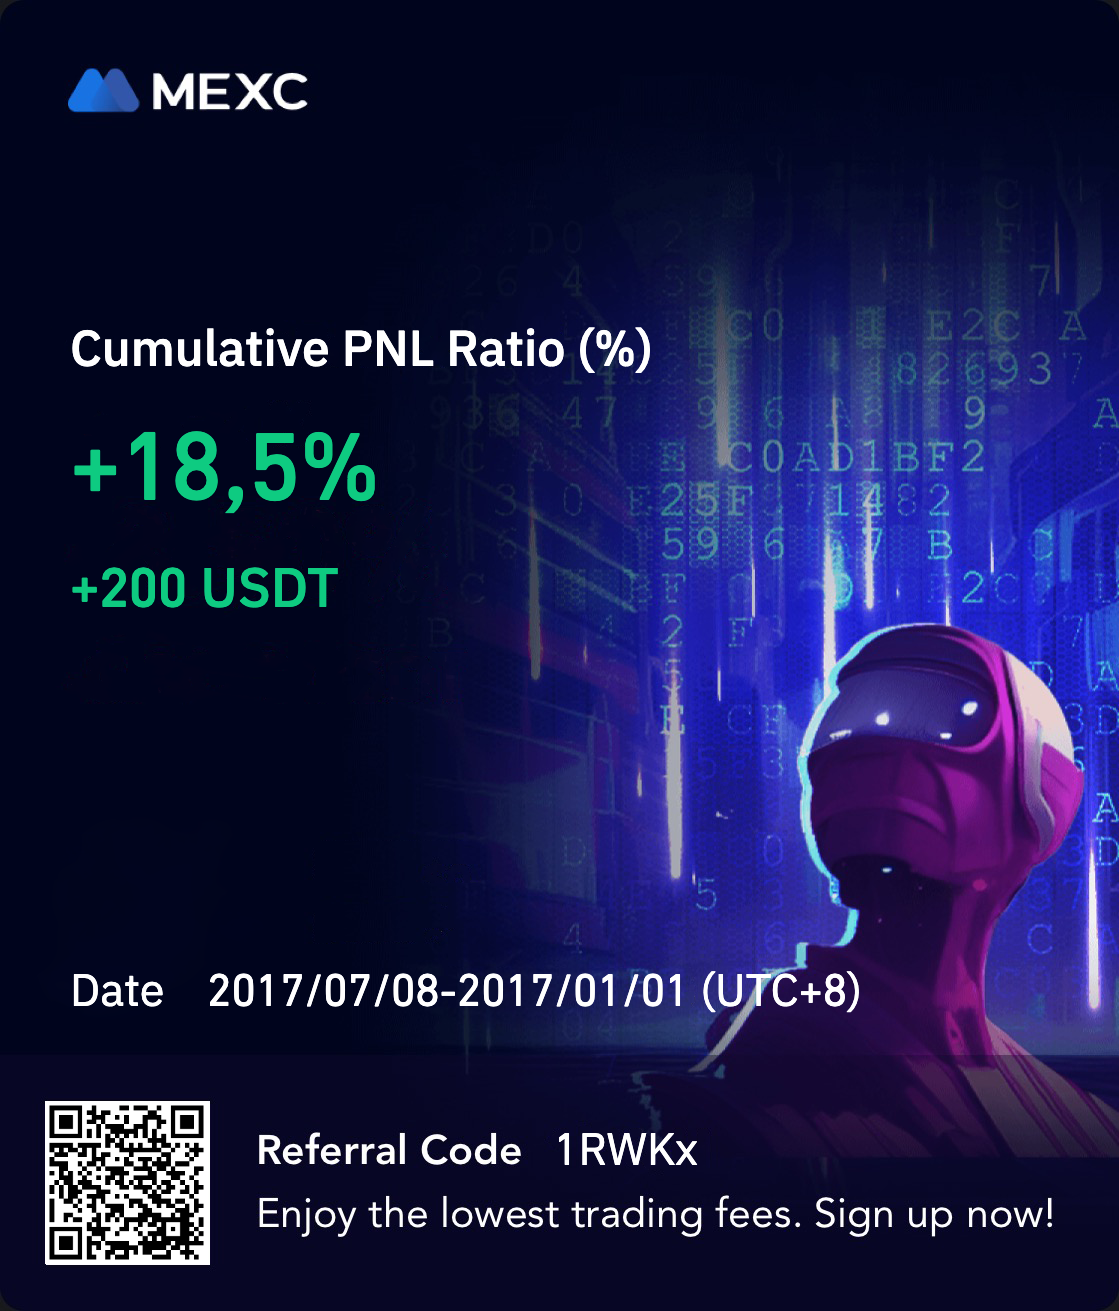
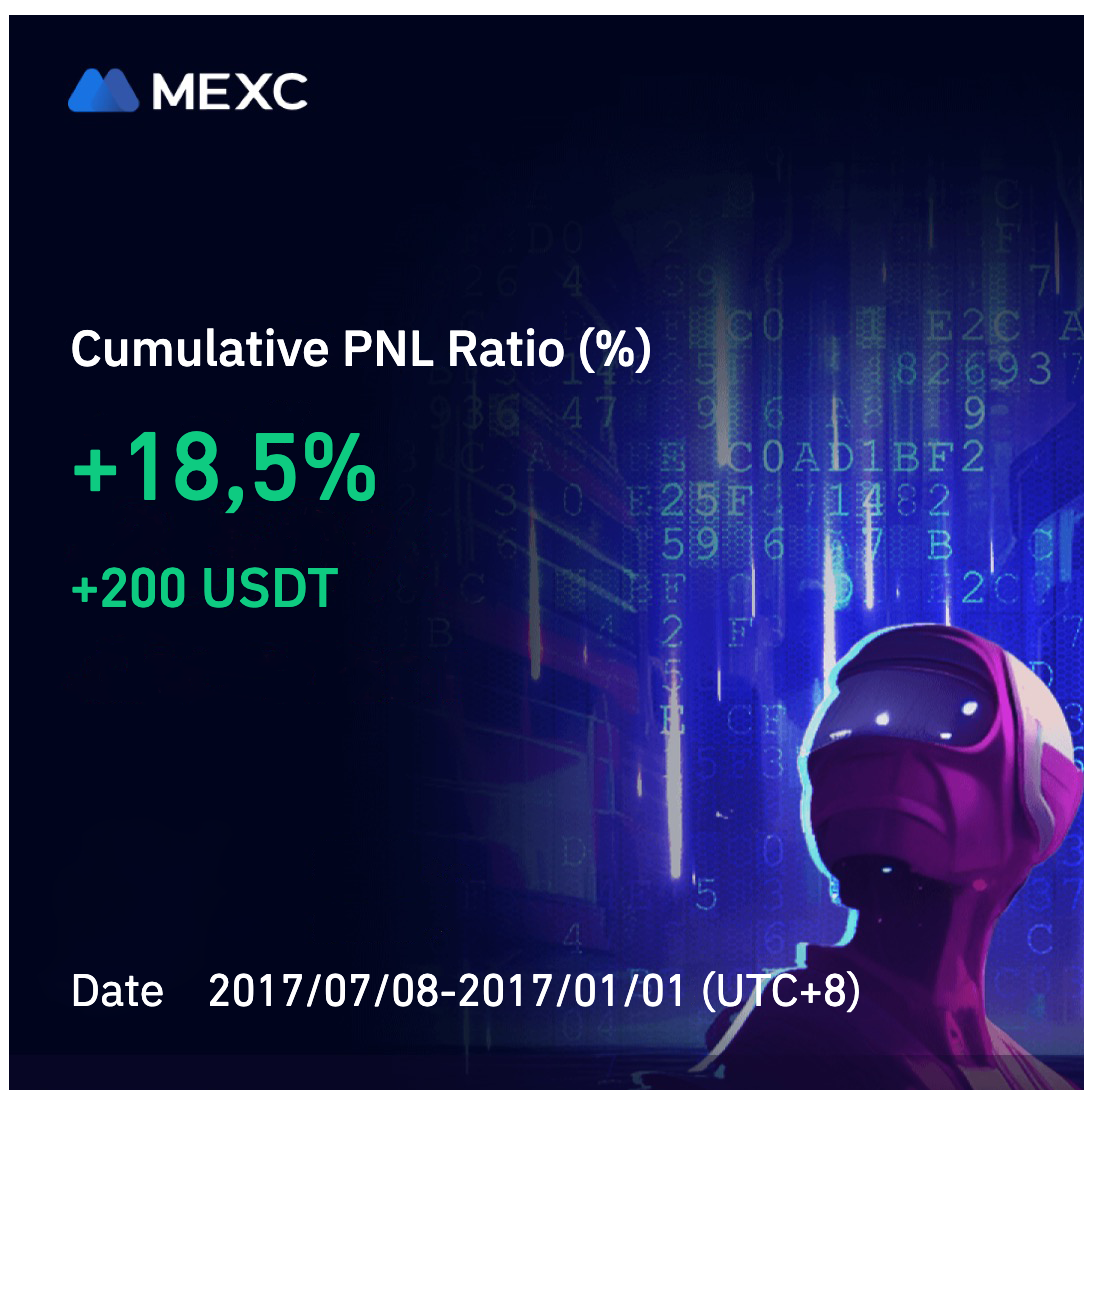
bug fixes for mexc pnl card

Changed region(s): [[0.0, 0.0, 1.0, 1.0]]

diff --git a/docs/index.html b/docs/index.html
@@ -9,6 +9,7 @@
   <style type="text/css">@font-face{font-family:'Material Icons';font-style:normal;font-weight:400;src:url(https://fonts.gstatic.com/s/materialicons/v142/flUhRq6tzZclQEJ-Vdg-IuiaDsNcIhQ8tQ.woff2) format('woff2');}.material-icons{font-family:'Material Icons';font-weight:normal;font-style:normal;font-size:24px;line-height:1;letter-spacing:normal;text-transform:none;display:inline-block;white-space:nowrap;word-wrap:normal;direction:ltr;-webkit-font-feature-settings:'liga';-webkit-font-smoothing:antialiased;}</style>
   <link rel="preload" href="assets/fonts/BinanceMedium.woff2" as="font" type="font/woff2" crossorigin="">
   <link rel="preload" href="assets/fonts/BinanceRegular.woff2" as="font" type="font/woff2" crossorigin="">
+  <link rel="preload" href="assets/fonts/Frygia.woff2" as="font" type="font/woff2" crossorigin="">
 
   <meta name="theme-color" content="#ffffff">
   <!-- Global site tag (gtag.js) - Google Analytics -->

diff --git a/src/app/components/mexc-pnl-card/mexc-pnl-card.component.ts b/src/app/components/mexc-pnl-card/mexc-pnl-card.component.ts
@@ -171,8 +171,11 @@ export class MexcPnlCardComponent implements OnInit, AfterViewInit, OnDestroy{
       .drawText(`${this.lang === CardLanguage.En ? 'Cumulative PNL Ratio (%)' : 'Совокупный PNL (%)'}`, this.config[this.key.Title]);
     this.canvasService
       .drawNumber(`${form[this.key.Pnl]}%`, this.config[this.key.Pnl]);
-    this.canvasService
-      .drawNumber(`${form[this.key.Pnl2]} USDT`, this.config[this.key.Pnl2]);
+    if (form[this.key.Pnl2]) {
+      this.canvasService
+        .drawNumber(`${form[this.key.Pnl2]} USDT`, this.config[this.key.Pnl2]);
+    }
+
     this.canvasService
       .drawText(`${this.lang === CardLanguage.En ? 'Date' : 'Время'}    ${form[this.key.Time]}`, this.config[this.key.Time]);
     this.canvasService.drawText(form[this.key.Referral], this.config[this.key.Referral]);

diff --git a/src/index.html b/src/index.html
@@ -11,6 +11,7 @@
   <link href="https://fonts.googleapis.com/icon?family=Material+Icons" rel="stylesheet">
   <link rel="preload" href="assets/fonts/BinanceMedium.woff2" as="font" type="font/woff2" crossorigin>
   <link rel="preload" href="assets/fonts/BinanceRegular.woff2" as="font" type="font/woff2" crossorigin>
+  <link rel="preload" href="assets/fonts/Frygia.woff2" as="font" type="font/woff2" crossorigin>
 
   <meta name="theme-color" content="#ffffff">
   <!-- Global site tag (gtag.js) - Google Analytics -->

diff --git a/src/styles.scss b/src/styles.scss
@@ -29,6 +29,11 @@ $my-app-theme: mat.define-light-theme(
   src: url('assets/fonts/BinanceRegular.woff2') format('woff2');
 }
 
+@font-face {
+  font-family: 'Frygia' ;
+  src: url('assets/fonts/Frygia.woff2') format('woff2');
+}
+
 html,
 body {
   height: 100%;

diff --git a/src/app/constants/card10en.config.ts b/src/app/constants/card10en.config.ts
@@ -31,7 +31,7 @@ export const CARD10_CONFIG_EN: Record<string, TextInterface> = {
   [Card10KeyEnum.Time]: {
     x: 70,
     y: 1006,
-    font: FontEnum.Plex,
+    font: FontEnum.Frygia,
     color: ColorEnum.White,
     size: '45px',
     weight: 100

diff --git a/src/app/constants/card10ru.config.ts b/src/app/constants/card10ru.config.ts
@@ -31,7 +31,7 @@ export const CARD10_CONFIG_RU: Record<string, TextInterface> = {
   [Card10KeyEnum.Time]: {
     x: 70,
     y: 961,
-    font: FontEnum.Plex,
+    font: FontEnum.Frygia,
     color: ColorEnum.White,
     size: '45px',
     weight: 100

diff --git a/src/app/enums/font.enum.ts b/src/app/enums/font.enum.ts
@@ -1,4 +1,5 @@
 export enum FontEnum {
  PlexCondensed = "'BinanceMedium', Arial, sans-serif",
- Plex = "'BinanceRegular', Arial, sans-serif"
+ Plex = "'BinanceRegular', Arial, sans-serif",
+  Frygia = "'Frygia', Arial, sans-serif",
 }
